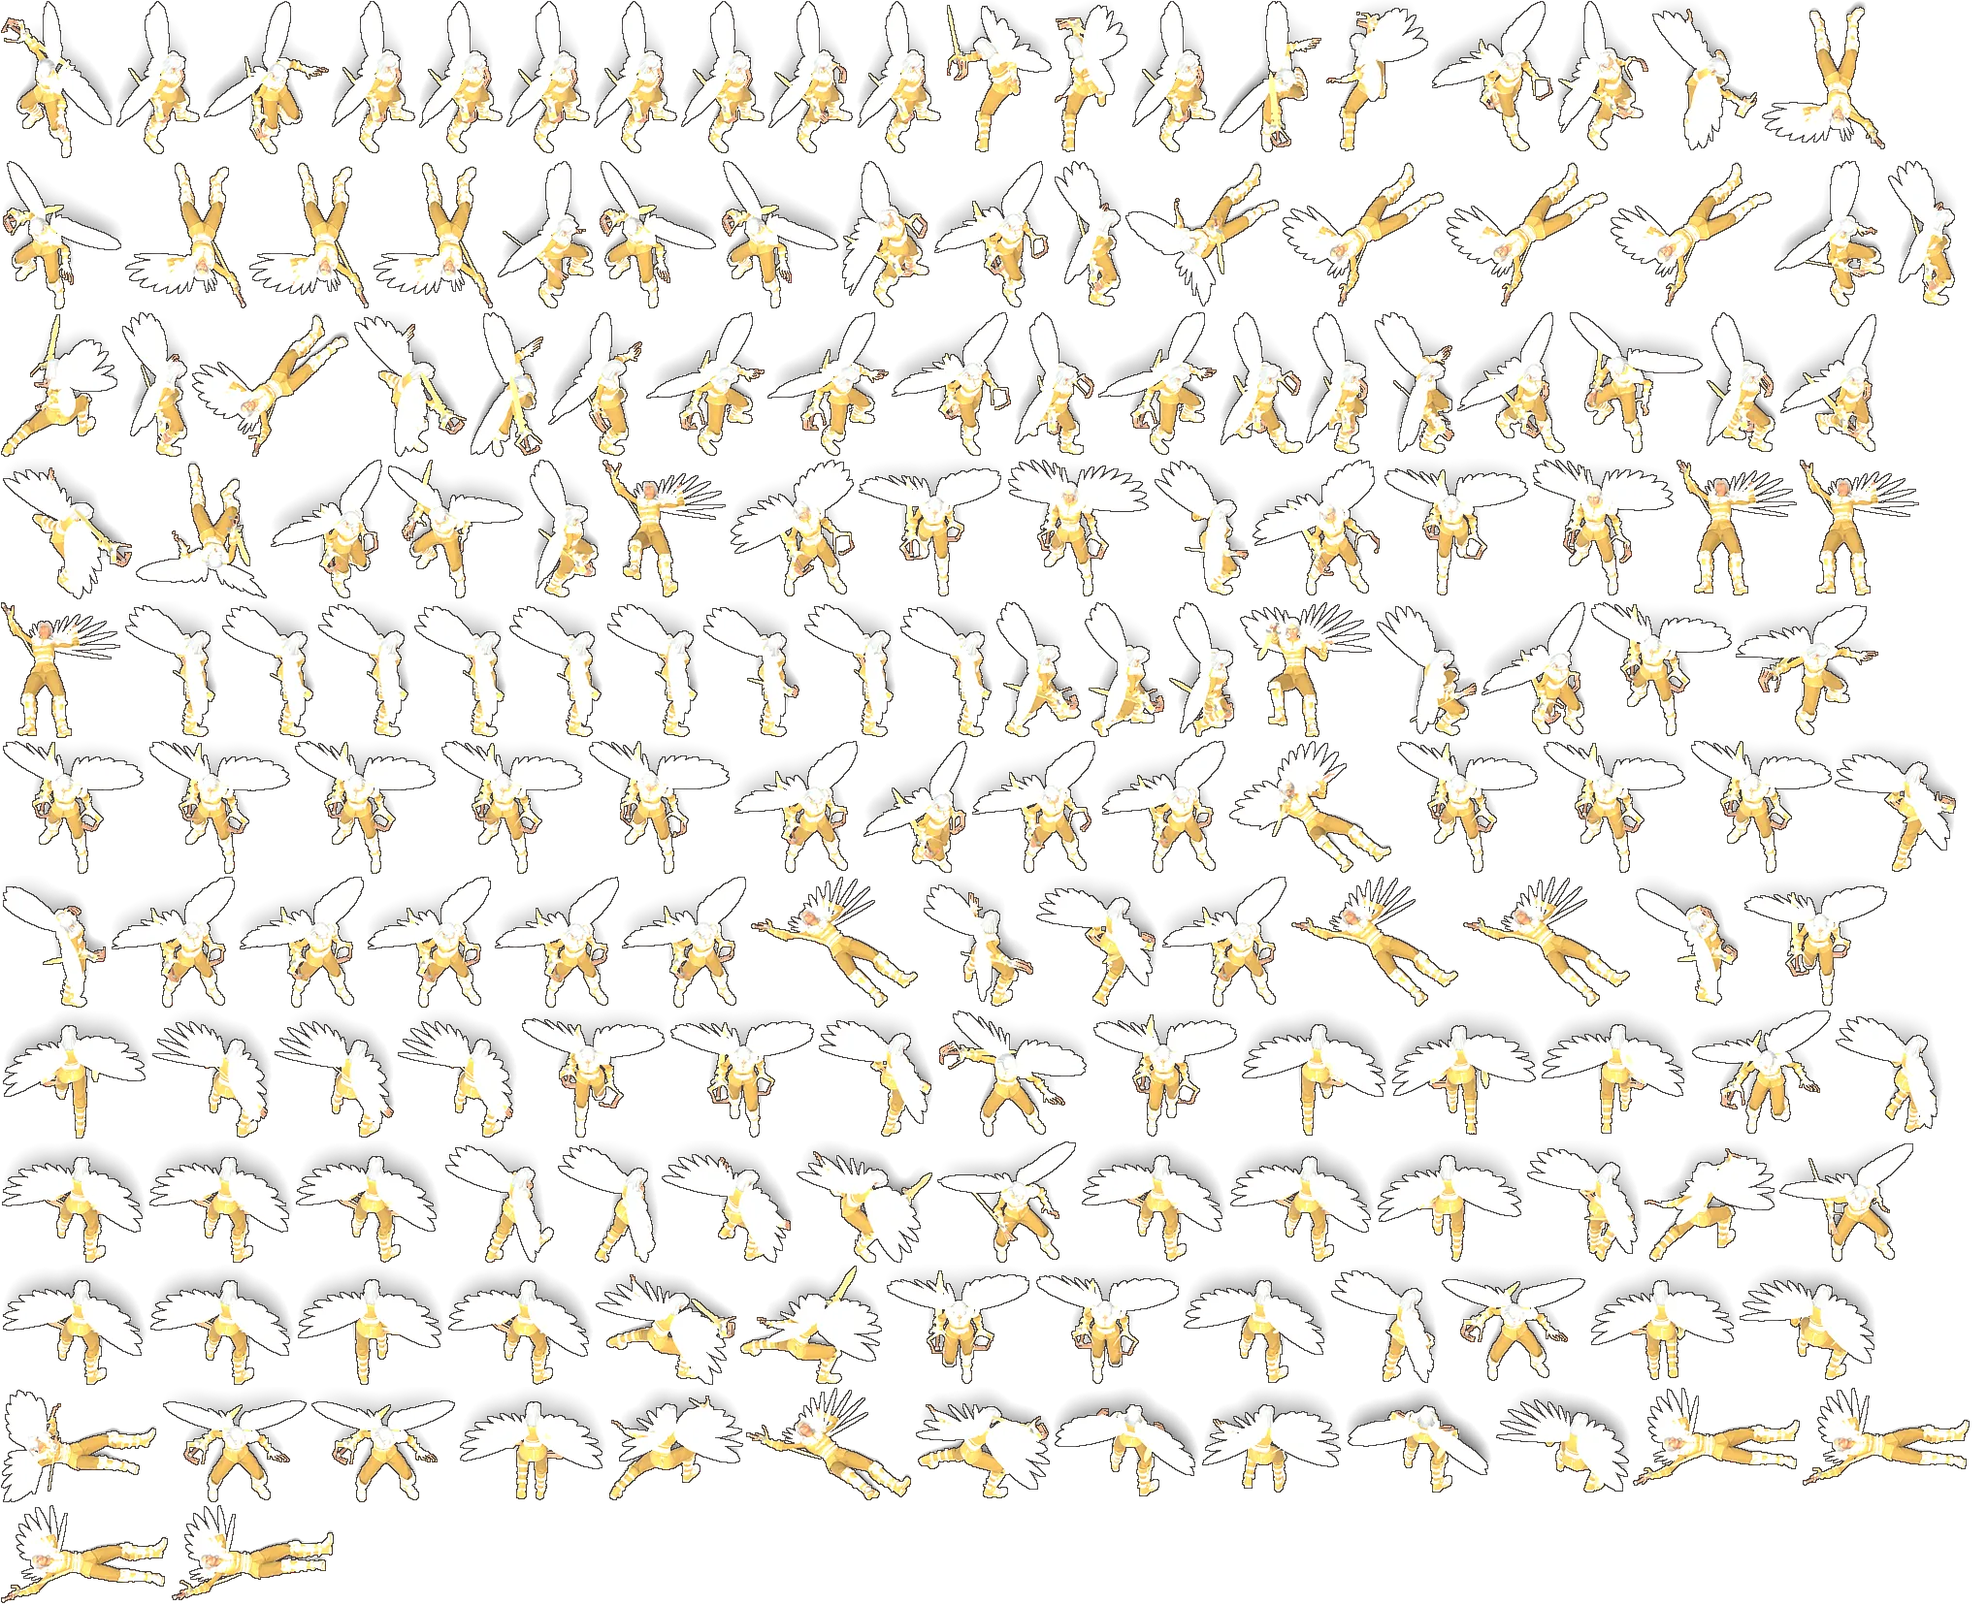
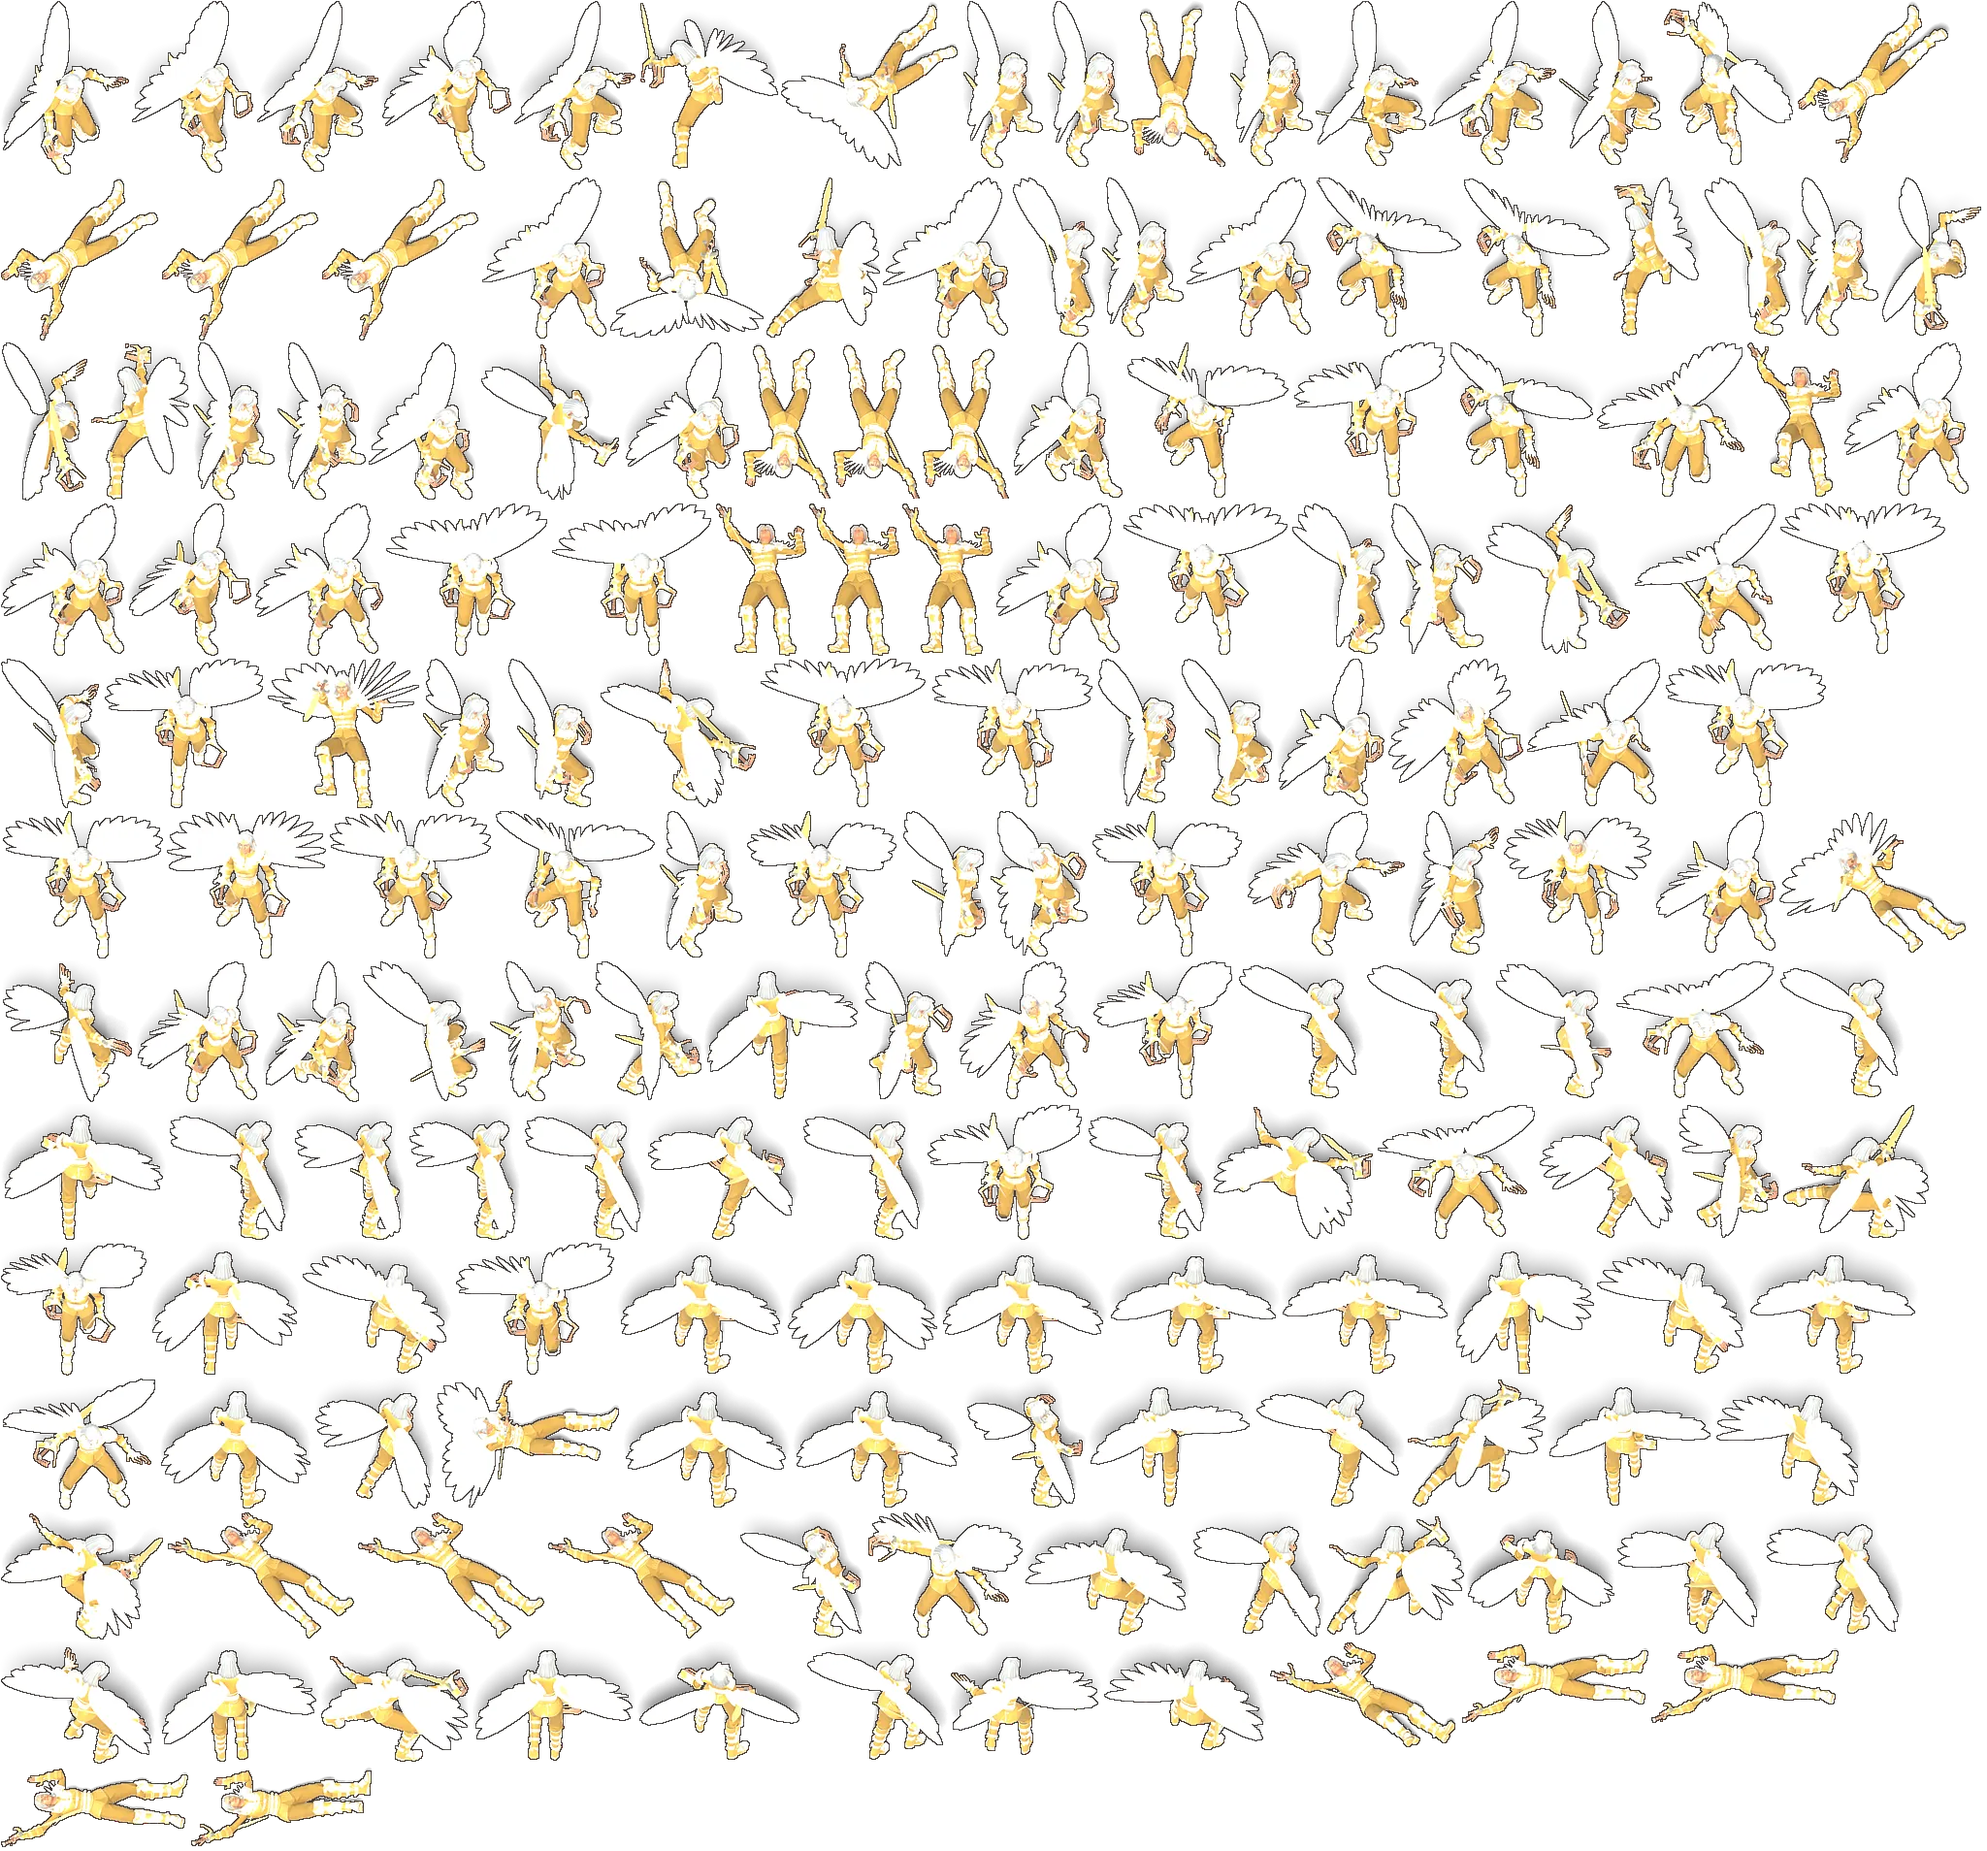
v16 wip: dedicated halberdier + crusader atlases, angel with flapping wings, alias table for all theme enemies

diff --git a/game3d.js b/game3d.js
@@ -124,10 +124,9 @@ async function buildPart(f,def,tint){const g=await loadG(f);const o=SkeletonUtil
     holder.scale.setScalar(p.len*H/(L*ws));bone.add(holder);}
   return {o,anims:g.animations};}
 // ---- pre-rendered sprites (?sprites=1): Blender-rendered 5-direction atlases (mirrored to 8) replace live 3D models ----
-const SPR_ON=/[?&]sprites=1/.test(location.search);const SPR={};const SPR_UNITS=['pikeman','archer','swordsman','monk','cavalier','angel','centaur','skeleton','walkingDead','goblin','dwarf','imp','gog','lich','behemoth','greenDragon','griffin','royalGriffin'];const sprLoader=new THREE.TextureLoader();const SPR_V=16;
+const SPR_ON=/[?&]sprites=1/.test(location.search);const SPR={};const SPR_UNITS=['pikeman','halberdier','archer','griffin','royalGriffin','swordsman','crusader','monk','cavalier','angel','skeleton','walkingDead','lich','goblin','behemoth','centaur','dwarf','greenDragon','imp','gog'];const sprLoader=new THREE.TextureLoader();const SPR_V=16;
 // upgraded creatures reuse their base unit's atlas with a colour tint and a slightly larger scale (same approach as the 3D fallback)
-const SPR_K={griffin:0.7,royalGriffin:0.7};const SPR_ALIAS={halberdier:['pikeman',0xc4d0ff],marksman:['archer',0xc8f0c0],crusader:['swordsman',0xffd28a],zealot:['monk',0xffe2a8],champion:['cavalier',0xdde4ff],archangel:['angel',0xffe6a0],
-  skeletonWarrior:['skeleton',0xc8d4ff],zombie:['walkingDead',0xc8e8a0],hobgoblin:['goblin',0xffc48a],battleDwarf:['dwarf',0xffcfa0],familiar:['imp',0xff9a7a],centaurCaptain:['centaur',0xd8e8c0],magog:['gog',0xffb070],powerLich:['lich',0xd0b0ff],ancientBehemoth:['behemoth',0xffb890]};
+const SPR_K={griffin:0.7,royalGriffin:0.7,roc:0.8,thunderbird:0.8};const SPR_ALIAS={skeletonWarrior:['skeleton',0xc8d4ff],zombie:['walkingDead',0xc8e8a0],familiar:['imp',0xff9a7a],centaurCaptain:['centaur',0xd8e8c0],magog:['gog',0xffb070],powerLich:['lich',0xd0b0ff],ancientBehemoth:['behemoth',0xffb890],roc:['griffin',0xa08060],thunderbird:['griffin',0x90a0ff],marksman:['archer',0xc8f0c0],zealot:['monk',0xffe2a8],champion:['cavalier',0xdde4ff],archangel:['angel',0xffe6a0],hobgoblin:['goblin',0xffc48a],battleDwarf:['dwarf',0xffcfa0],goldDragon:['greenDragon',0xffc840],blackDragon:['greenDragon',0x605868]};
 function loadSpr(t){if(!SPR_ON)return null;if(SPR_ALIAS[t])return loadSpr(SPR_ALIAS[t][0]);if(!SPR_UNITS.includes(t))return null;return SPR[t]||(SPR[t]=fetch(`assets/spr/${t}.json?v=${SPR_V}`).then(r=>r.json()).then(m=>Promise.all(m.pages.map((_,i)=>new Promise((res,rej)=>sprLoader.load(`assets/spr/${t}_p${i}.webp?v=${SPR_V}`,res,undefined,rej)))).then(tx=>{for(const x of tx){x.colorSpace=THREE.SRGBColorSpace;x.anisotropy=4;}m.tex=tx;return m;})).catch(e=>{console.warn('spr',t,e);return null;}));}
 const shadowTex=(()=>{const c=document.createElement('canvas');c.width=c.height=64;const x=c.getContext('2d');const g=x.createRadialGradient(32,32,2,32,32,32);g.addColorStop(0,'rgba(0,0,0,.62)');g.addColorStop(0.5,'rgba(0,0,0,.36)');g.addColorStop(1,'rgba(0,0,0,0)');x.fillStyle=g;x.fillRect(0,0,64,64);return new THREE.CanvasTexture(c);})();
 const shadowMat=new THREE.MeshBasicMaterial({map:shadowTex,transparent:true,depthWrite:false});const shadowGeo=new THREE.PlaneGeometry(1,1);shadowGeo.rotateX(-Math.PI/2);

diff --git a/tools/upd_engine.py b/tools/upd_engine.py
@@ -1,0 +1,23 @@
+import re,os,glob
+R='/workspace/heroes-clash/';s=open(R+'game3d.js').read()
+have=sorted(os.path.basename(f)[:-5] for f in glob.glob(R+'assets/spr/*.json'))
+order=['pikeman','halberdier','archer','marksman','griffin','royalGriffin','swordsman','crusader','monk','zealot','cavalier','champion','angel','archangel',
+ 'skeleton','walkingDead','wight','vampire','vampireLord','lich','blackKnight','boneDragon',
+ 'goblin','hobgoblin','wolfRider','orc','ogre','behemoth',
+ 'centaur','dwarf','battleDwarf','woodElf','pegasus','dendroidGuard','unicorn','greenDragon','goldDragon',
+ 'imp','gog','hellHound','demon','pitFiend','redDragon','blackDragon']
+units=[u for u in order if u in have]+[u for u in have if u not in order]
+alias={'skeletonWarrior':('skeleton',0xc8d4ff),'zombie':('walkingDead',0xc8e8a0),'familiar':('imp',0xff9a7a),'centaurCaptain':('centaur',0xd8e8c0),
+ 'magog':('gog',0xffb070),'powerLich':('lich',0xd0b0ff),'ancientBehemoth':('behemoth',0xffb890),
+ 'wraith':('wight',0xc0ccff),'dreadKnight':('blackKnight',0xffb0a0),'ghostDragon':('boneDragon',0xb8d8ff),
+ 'wolfRaider':('wolfRider',0xffe0c0),'orcChieftain':('orc',0xffe0b0),'ogreMage':('ogre',0xc8d0ff),'cyclops':('ogre',0xd8e0c8),'cyclopsKing':('ogre',0xffe0a0),'roc':('griffin',0xa08060),'thunderbird':('griffin',0x90a0ff),
+ 'grandElf':('woodElf',0xe8ffd8),'silverPegasus':('pegasus',0xd8e8ff),'dendroidSoldier':('dendroidGuard',0xe0ffc0),'warUnicorn':('unicorn',0xfff0d0),
+ 'cerberus':('hellHound',0xffb0a0),'hornedDemon':('demon',0xffc8a0),'pitLord':('pitFiend',0xffd0a0),'devil':('pitFiend',0x9a6070),'archDevil':('pitFiend',0x8a4050),
+ # fallbacks while dedicated atlases render
+ 'halberdier':('pikeman',0xc4d0ff),'marksman':('archer',0xc8f0c0),'crusader':('swordsman',0xffd28a),'zealot':('monk',0xffe2a8),'champion':('cavalier',0xdde4ff),'archangel':('angel',0xffe6a0),
+ 'hobgoblin':('goblin',0xffc48a),'battleDwarf':('dwarf',0xffcfa0),'vampireLord':('vampire',0xffc0c0),'goldDragon':('greenDragon',0xffc840),'blackDragon':('greenDragon',0x605868)}
+al={k:v for k,v in alias.items() if k not in units and v[0] in units}
+js="const SPR_ALIAS={"+",".join(f"{k}:['{b}',0x{t:06x}]" for k,(b,t) in al.items())+"};"
+s=re.sub(r"const SPR_UNITS=\[[^\]]*\];","const SPR_UNITS=["+",".join(f"'{u}'" for u in units)+"];",s)
+s=re.sub(r"const SPR_ALIAS=\{.*?\};",js,s,flags=re.S)
+open(R+'game3d.js','w').write(s);print(len(units),units);print(len(al),list(al))

diff --git a/tools/render.py b/tools/render.py
@@ -268,7 +268,7 @@ light('fill','SUN',1.3,(60,0,-150),(0.7,0.8,1.0),25);bpy.data.lights['fill'].use
 light('rim','SUN',J.get('rim',3.0),(-35,0,80),(1,0.95,0.9),4);bpy.data.lights['rim'].use_shadow=False
 if J.get('hd'):light('rim2','SUN',2.2,(-30,0,-20),(0.75,0.85,1.0),4);bpy.data.lights['rim2'].use_shadow=False
 w=bpy.data.worlds.new('w');sc.world=w;w.use_nodes=True;w.node_tree.nodes['Background'].inputs[0].default_value=(0.55,0.6,0.7,1);w.node_tree.nodes['Background'].inputs[1].default_value=0.45
-r=sc.render;r.engine='CYCLES';sc.cycles.device='CPU';sc.cycles.samples=JOB.get('_spp',24);sc.cycles.use_denoising=True;sc.cycles.max_bounces=4;r.use_persistent_data=True;sc.cycles.use_adaptive_sampling=True;sc.cycles.adaptive_threshold=0.02
+r=sc.render;r.engine='CYCLES';sc.cycles.device='CPU';sc.cycles.samples=J.get('spp',JOB.get('_spp',24));sc.cycles.use_denoising=True;sc.cycles.max_bounces=4;r.use_persistent_data=True;sc.cycles.use_adaptive_sampling=True;sc.cycles.adaptive_threshold=0.02
 sc.view_settings.view_transform='Standard';sc.view_settings.look='None';sc.view_settings.exposure=JOB.get('_exp',0.0)
 r.use_freestyle=bool(J.get('freestyle',False));r.line_thickness_mode='ABSOLUTE';r.line_thickness=J.get('line',JOB.get('_line',2.0))*PPU/256
 ls=sc.view_layers[0].freestyle_settings.linesets[0] if sc.view_layers[0].freestyle_settings.linesets else sc.view_layers[0].freestyle_settings.linesets.new('ls')
